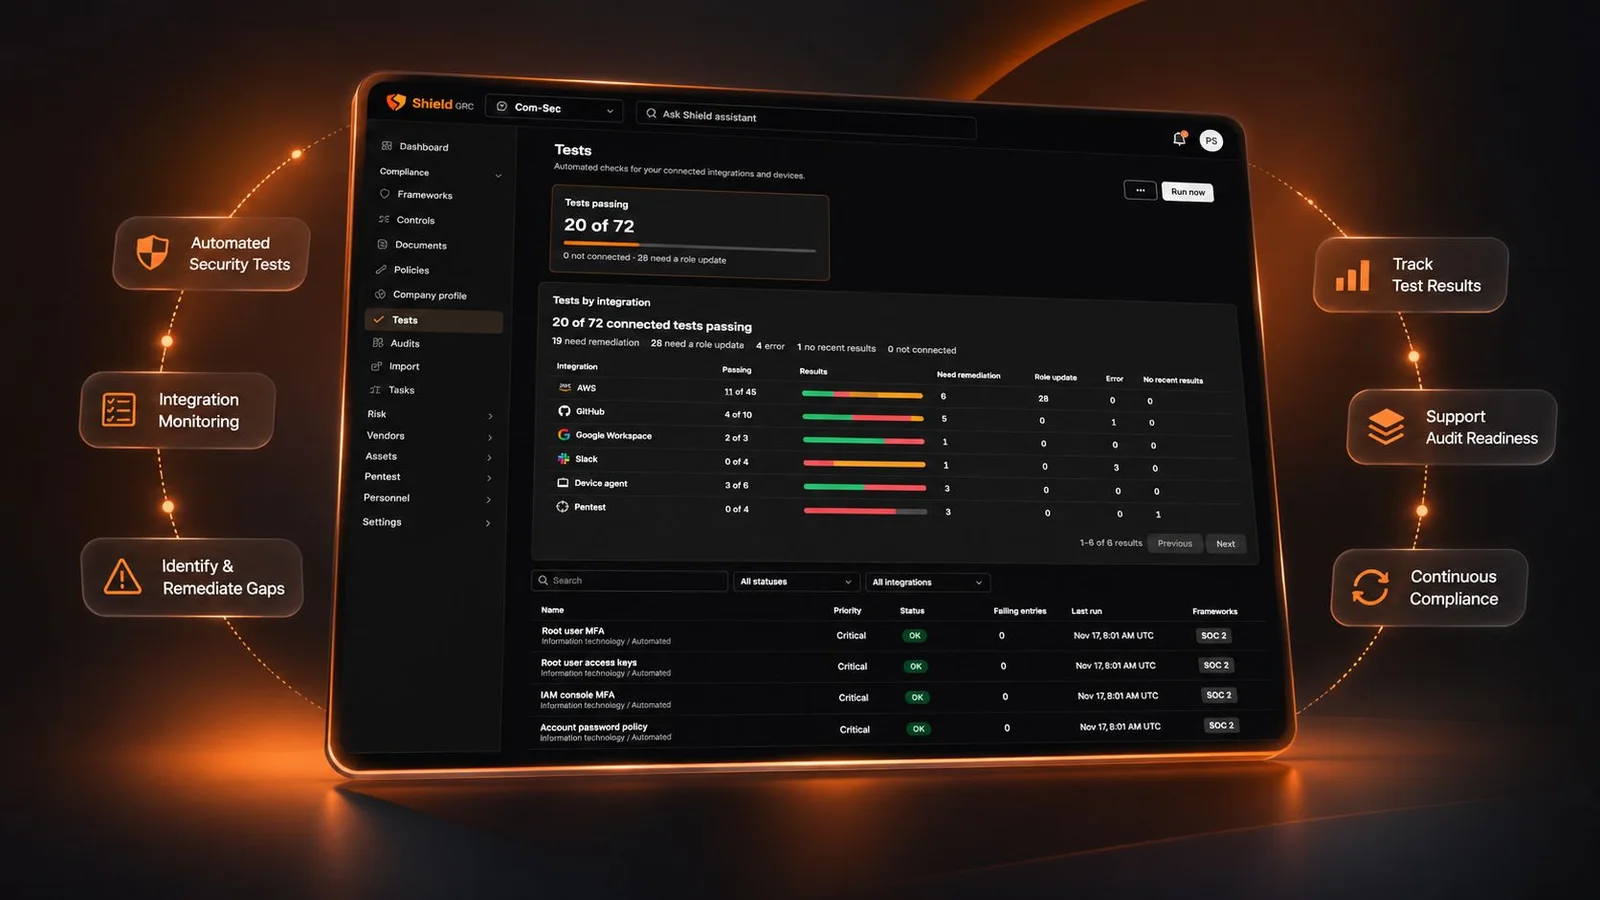
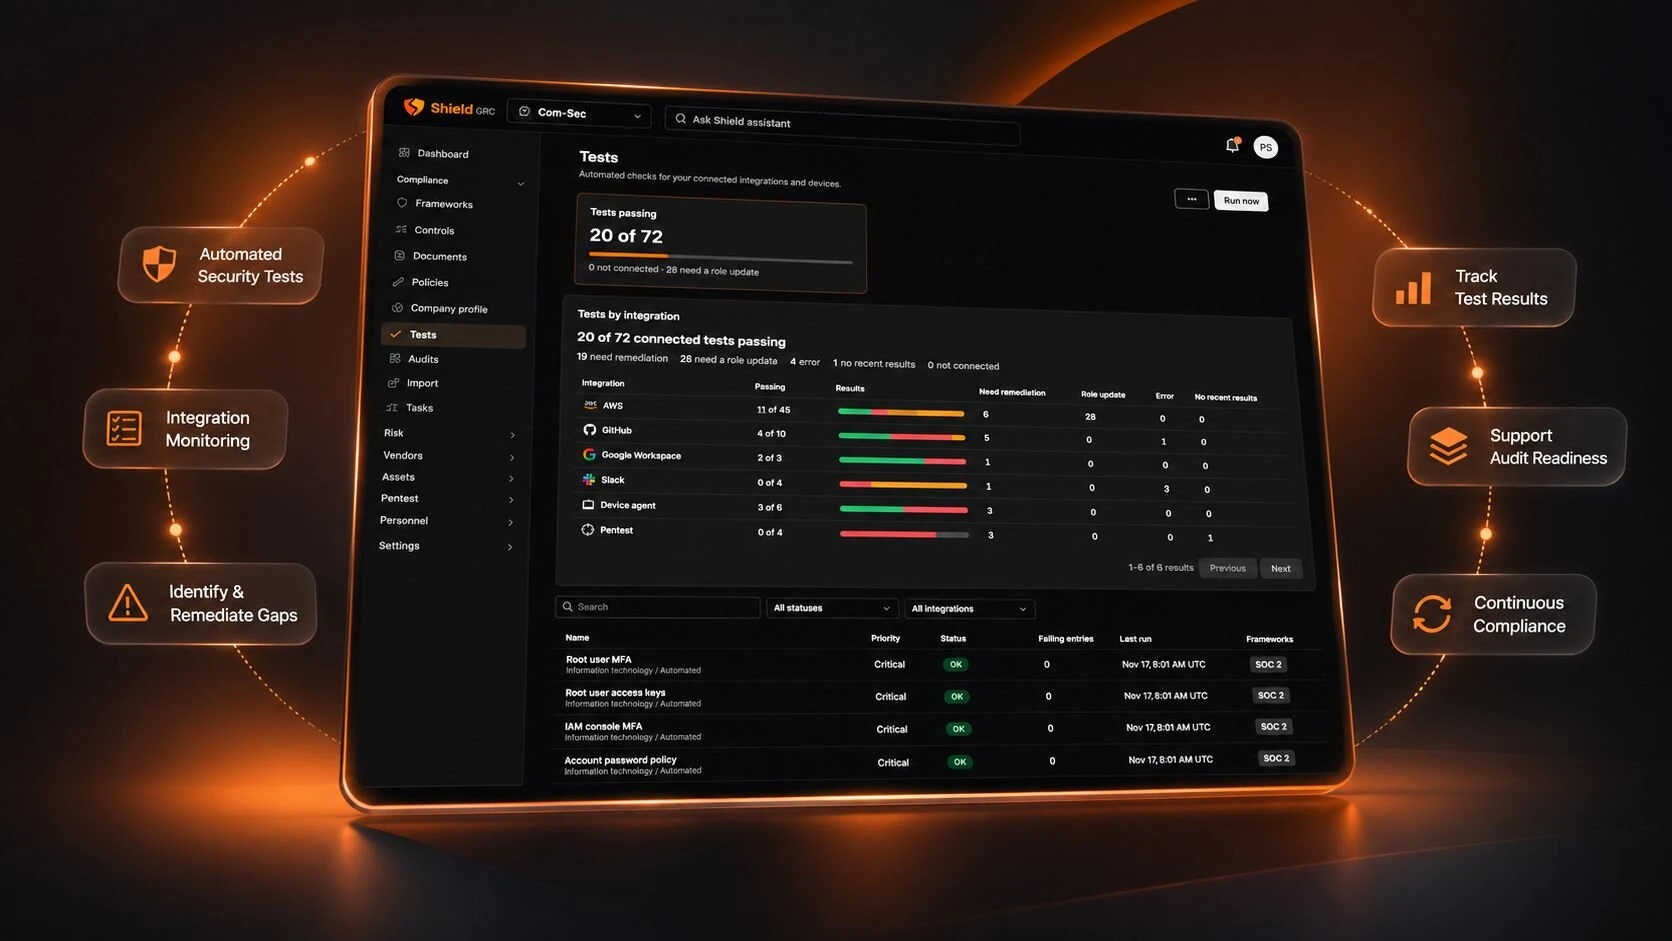
Improve Shield GRC screenshot image clarity

Changed region(s): [[0.0938, 0.6222, 0.1562, 0.6533], [0.9062, 0.6533, 0.9375, 0.6844]]

diff --git a/client/pages/products/ShieldGrc.tsx b/client/pages/products/ShieldGrc.tsx
@@ -517,9 +517,10 @@ export default function ShieldGrc() {
               <img
                 src="/images/products/shield-grc-tests.webp"
                 alt="Shield GRC Tests page showing 20 of 72 connected tests passing, test results by integration across AWS, GitHub, Google Workspace, Slack, device agents, and Pentest, and a list of critical checks with status and framework tags"
-                width={1600}
-                height={900}
+                width={1672}
+                height={941}
                 loading="lazy"
+                decoding="async"
                 className="w-full rounded-2xl border border-white/10 shadow-2xl shadow-orange-500/20"
               />
             </div>
